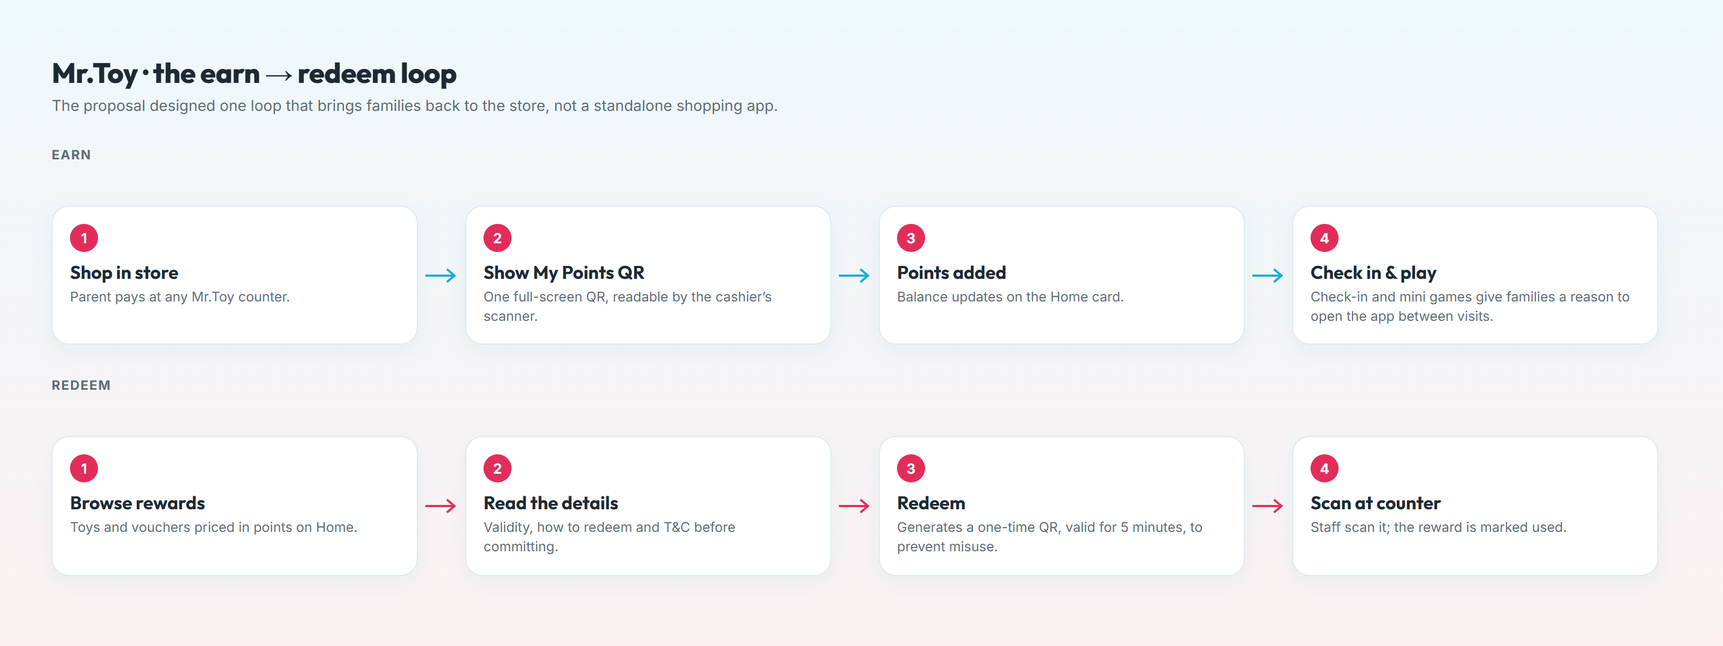
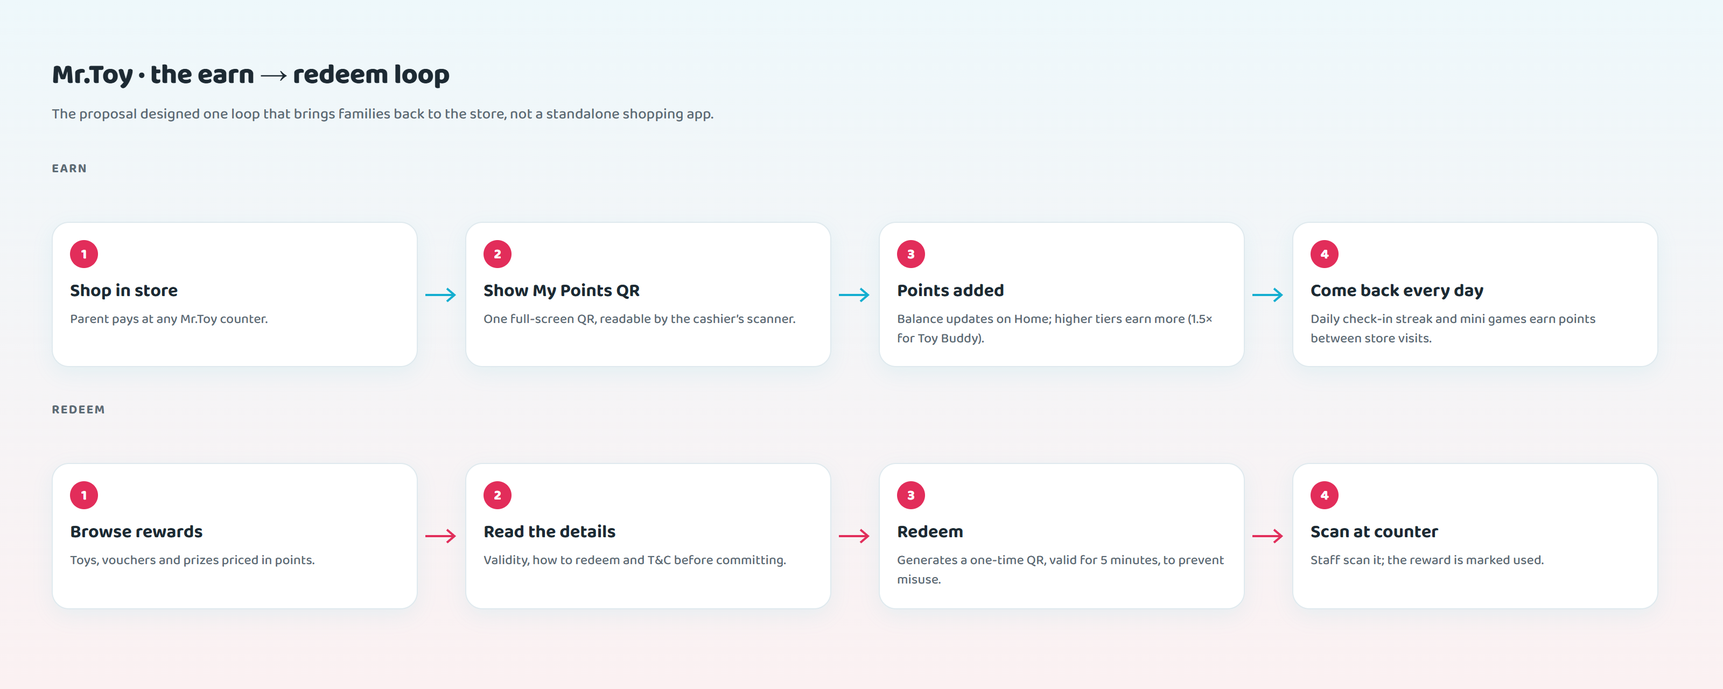
Use flat Figma screens for FitNect and Mr.Toy, add matching covers
- New FitNect and Mr.Toy covers in the same style as Duit and Jalan
- Real screen galleries replace the cropped close-ups; old mockups move to "All screens"
- Sitemaps and flows redrawn from the final screens (Mr.Toy daily check-in, mini games, tiers)
- Add fonts (PT Sans, Baloo 2) and dates; drop the Mr.Toy reflection and Duit usability testing
- Mobile galleries take a per-project screen ratio

diff --git a/src/data/caseStudies.ts b/src/data/caseStudies.ts
@@ -138,25 +138,12 @@ export const CASE_STUDIES: CaseStudy[] = [
         ],
       },
       {
-        // TODO(verify): sample results. Replace with your own usability-test results.
-        id: 'testing',
-        kind: 'insights',
-        phase: 'test',
-        title: 'Usability testing',
-        body: ['5 participants completed 3 tasks on the Figma prototype. Two changes came out of it: the budget ring got a numeric label, and “Split” moved from Me to the Pay tab.'],
-        items: [
-          { label: 'task success (set a budget)', value: '5/5' },
-          { label: 'avg. time to first budget', value: '48s' },
-          { label: 'SUS score', value: '82' },
-        ],
-      },
-      {
         id: 'learnings',
         kind: 'text',
         phase: 'test',
         title: 'What I learned',
         body: [
-          'Starting from real data instead of an empty form was the single biggest usability win.',
+          'Starting from real data instead of an empty form shaped every other decision in the app.',
           'Next: test the nudge copy for tone, and design an accessible high-contrast theme.',
         ],
       },
@@ -315,18 +302,17 @@ export const CASE_STUDIES: CaseStudy[] = [
     ],
   },
   // Real client work. Structure and decisions are read from the delivered screens.
-  // TODO(verify): confirm the brief, dates and outcomes before publishing.
   {
     slug: 'fitnect',
     title: 'FitNect',
     tagline: 'A fitness marketplace app for finding a personal trainer, booking and paying for sessions, and staying on track.',
     platform: 'Mobile',
     role: 'UI/UX Designer (freelance) — IA, user flows, UI design',
-    timeline: '', // TODO(verify): add dates
+    timeline: 'February 2025 (client project)',
     tools: ['Figma'],
     tags: ['Client Work', 'Marketplace', 'Dark Theme', 'iOS'],
     accent: '#7D51FC',
-    cover: { src: fitnectImg, alt: 'FitNect mobile app screens' },
+    cover: { src: img('fitnect', 'cover', 'webp'), alt: 'FitNect activities, home and service package screens on three phones' },
     sections: [
       {
         id: 'overview',
@@ -345,9 +331,9 @@ export const CASE_STUDIES: CaseStudy[] = [
         title: 'Design goals',
         body: ['A marketplace only works if both sides trust it. I designed around three questions a client asks before paying a stranger to train them.'],
         steps: [
-          { title: 'Can I trust this coach?', detail: 'Ratings, number of purchases, the trainer’s gym, rules and what to bring, before any payment.' },
-          { title: 'Does it fit my life?', detail: 'Service types (online, door-to-door, fixed location) and specialities such as post-injury or post-pregnancy.' },
-          { title: 'Will I keep going?', detail: 'Sessions shown as progress (3/10 done), reminders, and a timeline of what is next.' },
+          { title: 'Can I trust this coach?', detail: 'Ratings, purchases, certificates, reviews, rules and a cancellation policy, all before any payment.' },
+          { title: 'Does it fit my life?', detail: 'Service types (online, door-to-door, fixed location), special needs such as post-injury or post-pregnancy, and the trainer’s schedule.' },
+          { title: 'Will I keep going?', detail: 'Sessions shown as progress (3/10 done), a progress chart, and a timeline of what is next.' },
         ],
       },
       {
@@ -372,10 +358,11 @@ export const CASE_STUDIES: CaseStudy[] = [
         phase: 'design',
         title: 'Key design decisions',
         steps: [
-          { title: 'Price and “Buy now” stay pinned', detail: 'On the service page the price never scrolls away, so reading more never means losing the action.' },
+          { title: 'Price and “Buy now” stay pinned', detail: 'On the package page the price never scrolls away, so reading more never means losing the action.' },
           { title: 'Sessions read as progress', detail: 'Packages show “3/10 completed”, which turns a purchase into a goal and prompts the next booking.' },
           { title: 'One timeline for everything', detail: 'Booked sessions and self-logged workouts share the Activities timeline, so the day reads at a glance.' },
-          { title: 'Guarded destructive actions', detail: 'Deleting an account asks the user to type “Delete”, so it can’t happen by accident.' },
+          { title: 'A profile the trainer can work with', detail: 'Users share goals, activity level, diet, injuries and health conditions, so the first session starts prepared.' },
+          { title: 'The session is the plan', detail: 'Each booked session carries the workout plan and the trainer’s notes, with Reschedule one tap away.' },
         ],
       },
       {
@@ -391,24 +378,32 @@ export const CASE_STUDIES: CaseStudy[] = [
           { name: 'Background', hex: '#1F2022' },
           { name: 'Text', hex: '#FFFFFF' },
         ],
-        fonts: [], // TODO(verify): add the typeface used in the Figma file
-      },
-      {
-        id: 'closeups',
-        kind: 'gallery',
-        layout: 'detail',
-        phase: 'design',
-        title: 'Screens up close',
-        images: [
-          { src: img('fitnect', 'detail', 'jpg'), alt: 'Service detail page for 1-on-1 personal training', caption: 'Service detail — trust signals before the pinned Buy now' },
-          { src: img('fitnect', 'home', 'jpg'), alt: 'Home with upcoming sessions, session progress and progress tiles', caption: 'Home — upcoming sessions and progress' },
-          { src: img('fitnect', 'activities', 'jpg'), alt: 'Activities calendar with a timeline of sessions', caption: 'Activities — sessions and workouts on one timeline' },
-          { src: img('fitnect', 'payments', 'jpg'), alt: 'Payments with saved cards and transaction history', caption: 'Payments — saved cards and history' },
-          { src: img('fitnect', 'help', 'jpg'), alt: 'Help centre with common issues and contact options', caption: 'Help centre — answers before support' },
-        ],
+        fonts: ['PT Sans'],
       },
       {
         id: 'hifi',
+        kind: 'gallery',
+        layout: 'mobile',
+        screenRatio: 402 / 800,
+        phase: 'design',
+        title: 'High-fidelity screens',
+        images: [
+          { src: img('fitnect', 'home'), alt: 'Home with upcoming sessions, trainer sessions and a progress chart', caption: 'Home — upcoming sessions and progress' },
+          { src: img('fitnect', 'service'), alt: '1-on-1 personal training package with rules, service types and reviews', caption: 'Package detail — trust signals before the pinned Buy now' },
+          { src: img('fitnect', 'trainer'), alt: 'Trainer profile with certificates, reviews, packages and schedule', caption: 'Trainer profile — certificates, reviews and schedule' },
+          { src: img('fitnect', 'session'), alt: 'Session detail with workout plan and trainer’s notes', caption: 'Session — workout plan, notes and reschedule' },
+          { src: img('fitnect', 'activities'), alt: 'Activities calendar with a timeline of sessions and workouts', caption: 'Activities — sessions and workouts on one timeline' },
+          { src: img('fitnect', 'home-filter'), alt: 'Date range filter over the home screen', caption: 'Filter — progress by date range' },
+          { src: img('fitnect', 'my-profile'), alt: 'User profile with goals, diet, injuries and health condition', caption: 'My profile — what a trainer needs to know' },
+          { src: img('fitnect', 'profile'), alt: 'Profile tab with settings and support links', caption: 'Profile — settings and support' },
+          { src: img('fitnect', 'payments'), alt: 'Payments with saved cards and transaction history', caption: 'Payments — saved cards and history' },
+          { src: img('fitnect', 'privacy'), alt: 'Privacy and security settings with change password', caption: 'Privacy & security' },
+          { src: img('fitnect', 'help'), alt: 'Help centre with common issues and contact options', caption: 'Help centre — answers before support' },
+          { src: img('fitnect', 'guide'), alt: 'How FitNect works guide in three steps', caption: 'How FitNect works — onboarding guide' },
+        ],
+      },
+      {
+        id: 'all-screens',
         kind: 'gallery',
         layout: 'web',
         phase: 'design',
@@ -420,14 +415,14 @@ export const CASE_STUDIES: CaseStudy[] = [
   {
     slug: 'mrtoy',
     title: 'Mr.Toy',
-    tagline: 'A loyalty app proposal for the Mr.Toy toy-store chain: points, rewards, vouchers and a QR code for the counter.',
+    tagline: 'A loyalty app proposal for the Mr.Toy toy-store chain: points, daily rewards, vouchers and a QR code for the counter.',
     platform: 'Mobile',
     role: 'UI/UX Designer — pitch proposal',
-    timeline: '', // TODO(verify): add dates
+    timeline: 'March 2025 (pitch)',
     tools: ['Figma'],
     tags: ['Pitch', 'Loyalty', 'Retail', 'iOS'],
     accent: '#15AED0',
-    cover: { src: mrtoyImg, alt: 'Mr.Toy loyalty app screens' },
+    cover: { src: img('mrtoy', 'cover', 'webp'), alt: 'Mr.Toy rewards, home and voucher screens on three phones' },
     sections: [
       {
         id: 'overview',
@@ -444,8 +439,9 @@ export const CASE_STUDIES: CaseStudy[] = [
         phase: 'define',
         title: 'Design goals',
         steps: [
-          { title: 'Bring families back', detail: 'Points, rewards and seasonal campaigns give a reason for the next visit.' },
-          { title: 'Make the counter fast', detail: 'The points QR is one tap away and fills the screen, so checkout isn’t held up.' },
+          { title: 'Bring families back', detail: 'Points, membership tiers and seasonal campaigns give a reason for the next visit.' },
+          { title: 'A reason to open it every day', detail: 'A daily check-in streak and mini games earn points between store visits.' },
+          { title: 'Make the counter fast', detail: 'The points QR floats above every tab and fills the screen, so checkout isn’t held up.' },
           { title: 'Speak to parents and kids', detail: 'Playful colour and toy photos for kids; clear terms and validity for parents.' },
         ],
       },
@@ -454,8 +450,8 @@ export const CASE_STUDIES: CaseStudy[] = [
         kind: 'text',
         phase: 'define',
         title: 'Information architecture',
-        body: ['Everything a member needs at the counter (points, vouchers, the QR code) is one tap from Home.'],
-        images: [{ src: img('mrtoy', 'sitemap'), alt: 'Mr.Toy sitemap with home sections, vouchers and points QR', caption: 'Sitemap' }],
+        body: ['Five tabs follow the loyalty loop: Home, Rewards, Store locator, Transactions and Account. My Points QR floats above every tab, because the counter is where points are earned.'],
+        images: [{ src: img('mrtoy', 'sitemap'), alt: 'Mr.Toy sitemap with sign-in, five tabs and the floating points QR', caption: 'Sitemap' }],
       },
       {
         id: 'flow',
@@ -471,10 +467,12 @@ export const CASE_STUDIES: CaseStudy[] = [
         phase: 'design',
         title: 'Key design decisions',
         steps: [
+          { title: 'A streak that grows', detail: 'Daily check-in gives +1 a day and +5 on day 7, so the seventh visit is worth coming back for.' },
+          { title: 'Mini games earn points', detail: 'Games on Home turn a quick daily open into points, keeping the brand in front of kids between visits.' },
+          { title: 'Tiers show the next step', detail: 'Account shows the current tier and how far to the next (“RM254 away from Toy Collector”), with its benefits.' },
           { title: 'Rewards are toys, not numbers', detail: 'Each reward shows the toy, its points price and the original price struck through.' },
           { title: 'Terms before commitment', detail: 'Vouchers explain validity, how to redeem and T&C before the Redeem button.' },
           { title: 'Time-limited redemption QR', detail: 'A redeemed voucher becomes a QR valid for 5 minutes, so screenshots can’t be reused.' },
-          { title: 'Room for campaigns', detail: 'A banner carousel on Home lets marketing run seasonal sales like Raya without an app update.' },
         ],
       },
       {
@@ -482,7 +480,7 @@ export const CASE_STUDIES: CaseStudy[] = [
         kind: 'palette',
         phase: 'design',
         title: 'Visual language',
-        body: ['Bright cyan from the Mr.Toy brand anchors the app. A soft cyan-to-pink gradient makes reward and QR screens feel like opening a present, and a strong pink-red is kept for Redeem actions.'],
+        body: ['Bright cyan from the Mr.Toy brand anchors the app. A soft cyan-to-pink gradient makes reward and QR screens feel like opening a present, and a strong pink-red is kept for Redeem actions. Baloo 2’s rounded letters match the playful tone.'],
         colors: [
           { name: 'Mr.Toy Cyan', hex: '#15AED0' },
           { name: 'Sky', hex: '#7ECAD7' },
@@ -490,28 +488,34 @@ export const CASE_STUDIES: CaseStudy[] = [
           { name: 'Redeem', hex: '#E22D5A' },
           { name: 'Card', hex: '#FFFFFF' },
         ],
-        fonts: [], // TODO(verify): add the typeface used in the Figma file
+        fonts: ['Baloo 2'],
       },
       {
         id: 'hifi',
         kind: 'gallery',
-        layout: 'web',
+        layout: 'mobile',
+        screenRatio: 375 / 812,
         phase: 'design',
-        title: 'Screens',
+        title: 'High-fidelity screens',
         images: [
-          { src: mrtoyImg, alt: 'Mr.Toy home, voucher, reward and points screens', caption: 'Home, voucher detail, reward detail and My Points' },
-          { src: img('mrtoy', 'points-qr', 'jpg'), alt: 'My Points screen with a full-screen QR code', caption: 'My Points — a full-screen QR for the cashier' },
+          { src: img('mrtoy', 'home'), alt: 'Home with points summary, campaign banner, rewards and mini games', caption: 'Home — points, campaigns, rewards and mini games' },
+          { src: img('mrtoy', 'rewards'), alt: 'Rewards with a 7-day check-in streak and vouchers', caption: 'Rewards — daily check-in streak and vouchers' },
+          { src: img('mrtoy', 'voucher'), alt: 'Voucher detail with validity, how to redeem and terms', caption: 'Voucher — terms before Redeem' },
+          { src: img('mrtoy', 'points-qr'), alt: 'My Points screen with a full-screen QR code', caption: 'My Points — a full-screen QR for the cashier' },
+          { src: img('mrtoy', 'locator'), alt: 'Store locator map with a store card and check-in button', caption: 'Store locator — hours and check-in' },
+          { src: img('mrtoy', 'account'), alt: 'Account with points, membership tier progress and vouchers', caption: 'Account — tier progress and vouchers' },
+          { src: img('mrtoy', 'membership'), alt: 'Membership tier with Toy Buddy privileges', caption: 'Membership — what each tier unlocks' },
+          { src: img('mrtoy', 'transactions'), alt: 'In-store transactions with points earned', caption: 'Transactions — purchases and points earned' },
+          { src: img('mrtoy', 'login'), alt: 'Sign in with Google, Apple or email', caption: 'Sign in' },
         ],
       },
       {
-        // TODO(verify): this reflection is a draft. Rewrite it in your own words.
-        id: 'reflection',
-        kind: 'text',
-        phase: 'test',
-        title: 'Reflection',
-        body: [
-          'A pitch is judged in minutes. Next time I would lead with a clickable prototype of the counter moment and a short rollout plan, because that is what a retailer has to picture before saying yes.',
-        ],
+        id: 'all-screens',
+        kind: 'gallery',
+        layout: 'web',
+        phase: 'design',
+        title: 'All screens',
+        images: [{ src: mrtoyImg, alt: 'Mr.Toy home, voucher, reward and points screens' }],
       },
     ],
   },

diff --git a/design/client-work.html b/design/client-work.html
@@ -2,11 +2,11 @@
 <html lang="en">
 <head>
 <meta charset="utf-8" />
-<title>FitNect & Mr.Toy — IA and flow diagrams</title>
+<title>FitNect & Mr.Toy — covers, IA and flow diagrams</title>
 <link rel="preconnect" href="https://fonts.googleapis.com" />
-<link href="https://fonts.googleapis.com/css2?family=Inter:wght@400;500;600;700&family=Outfit:wght@600;700;800&display=swap" rel="stylesheet" />
+<link href="https://fonts.googleapis.com/css2?family=Inter:wght@400;500;600;700&family=Outfit:wght@600;700;800&family=PT+Sans:wght@400;700&family=Baloo+2:wght@500;600;700;800&display=swap" rel="stylesheet" />
 <style>
-  /* Diagrams documenting the shipped FitNect and Mr.Toy designs. Structure is read off the final screens. */
+  /* Covers and diagrams for the FitNect and Mr.Toy case studies. Structure is read off the final Figma screens. */
   * { box-sizing: border-box; margin: 0; padding: 0; }
   body { background: #d9dbe4; font-family: 'Inter', sans-serif; padding: 40px; display: flex; flex-direction: column; gap: 40px; align-items: flex-start; }
   .artboard { position: relative; overflow: hidden; flex: none; padding: 48px; }
@@ -36,7 +36,15 @@
   .loop { margin-top: 26px; padding: 14px 18px; border-radius: 14px; font-size: 13.5px; line-height: 1.5; display: flex; gap: 12px; align-items: flex-start; }
   .lane { font-size: 12px; font-weight: 700; letter-spacing: .08em; text-transform: uppercase; margin-top: 30px; }
 
+  /* Covers */
+  .cover { padding: 0; }
+  .chip { padding: 6px 14px; border-radius: 99px; background: rgba(255,255,255,.16); font-size: 12px; font-weight: 600; }
+  .phone { position: absolute; width: 320px; border-radius: 40px; overflow: hidden; }
+  .phone img { display: block; width: 100%; }
+
   /* FitNect theme (dark, purple + lime) */
+  .fit, .fit .title, .fit .root, .fit h5 { font-family: 'PT Sans', sans-serif; }
+  .toy, .toy .title, .toy .root, .toy h5 { font-family: 'Baloo 2', sans-serif; }
   .fit { background: #1f2022; color: #e7e7ea; --line: #4a4b52; }
   .fit .sub { color: #a5a6ad; }
   .fit .root { background: #c8f672; color: #1f2022; }
@@ -74,48 +82,67 @@ const sitemap = (root, tabs) => `<div class="tree"><div class="root">${root}</di
   </div></div>`;
 const flow = (steps, color) => `<div class="flow">${steps.map(([t, d], i) => `${i ? arrow(color) : ''}<div class="step"><span class="n">${i + 1}</span><h5>${t}</h5><p>${d}</p></div>`).join('')}</div>`;
 
+// Phone frames take the app's screen ratio, so long scrolling screens show only their top
+const phones = (slug, ratio, list, shadow) => list.map(([n, x, y, r]) => `<div class="phone" style="left:${x}px;top:${y}px;height:${Math.round(320 * ratio)}px;transform:rotate(${r}deg);box-shadow:0 30px 60px ${shadow}"><img src="../public/work/${slug}/${n}.png" alt=""></div>`).join('');
+const coverText = (chips, name, line, color) => `<div style="position:absolute;left:110px;top:240px;width:450px;color:#fff">
+    <div style="display:flex;gap:8px">${chips.map(c => `<span class="chip">${c}</span>`).join('')}</div>
+    <div class="title" style="font-size:118px;font-weight:800;line-height:1;margin-top:16px;color:#fff">${name}</div>
+    <div style="font-size:23px;font-weight:700;margin-top:18px;line-height:1.35;color:${color}">${line}</div>
+  </div>`;
+
 const boards = {
-  'fitnect-ia': [1600, 700, 'fit', () => `<div class="title">FitNect · information architecture</div><div class="sub">Five tabs. Search sits in the middle as the main action, because finding a coach is how every journey starts.</div>
+  'fitnect-cover': [1600, 900, 'fit cover', () => `<div style="position:absolute;inset:0;background:linear-gradient(135deg,#1f2022 0%,#3a2a7a 60%,#7d51fc 100%)"></div>
+    <div style="position:absolute;right:-220px;top:-300px;width:900px;height:900px;border-radius:50%;background:rgba(200,246,114,.08)"></div>
+    ${coverText(['Mobile app', 'Client project'], 'FitNect', 'Find a personal trainer, book and pay for sessions, and stay on track.', '#c8f672')}
+    ${phones('fitnect', 800 / 402, [['activities', 640, 175, -6], ['home', 935, 105, 0], ['service', 1230, 175, 6]], 'rgba(0,0,0,.45)')}`],
+
+  'mrtoy-cover': [1600, 900, 'toy cover', () => `<div style="position:absolute;inset:0;background:linear-gradient(135deg,#0f8fb0 0%,#15aed0 50%,#f08aa3 100%)"></div>
+    <div style="position:absolute;right:-220px;top:-300px;width:900px;height:900px;border-radius:50%;background:rgba(255,255,255,.1)"></div>
+    ${coverText(['Mobile app', 'Pitch proposal'], 'Mr.Toy', 'A loyalty app that gives families a reason to come back to the toy store.', '#fff4f6')}
+    ${phones('mrtoy', 812 / 375, [['rewards', 640, 175, -6], ['home', 935, 105, 0], ['voucher', 1230, 175, 6]], 'rgba(10,60,80,.35)')}`],
+
+  'fitnect-ia': [1600, 760, 'fit', () => `<div class="title">FitNect · information architecture</div><div class="sub">Five tabs. Search sits in the middle as the main action, because finding a coach is how every journey starts.</div>
     ${sitemap('FitNect', [
-      ['Tab 1', 'Home', ['Upcoming sessions', 'My trainer’s sessions (3/10 done)', 'My progress (minutes per programme)', 'Add a progress metric']],
+      ['Tab 1', 'Home', ['Upcoming sessions', 'My trainer’s sessions (3/10 done)', ['Session detail: workout plan, trainer’s notes, reschedule'], 'My progress chart', ['Filter by date range'], 'Add a progress metric']],
       ['Tab 2', 'Activities', ['Week calendar', 'Day timeline of sessions & workouts', ['Add activity'], ['Swipe to delete']]],
-      ['Tab 3 · main action', 'Search', ['Keyword + location search', 'Recent searches', 'Service detail', ['Trainer, reviews, rules, what to bring'], ['Service types (online, door-to-door…)'], ['Buy now → payment']]],
+      ['Tab 3 · main action', 'Search', ['Keyword + location search', 'Service package detail', ['Rules, cancellation policy, what to bring'], ['Service types & session counts'], ['Buy now → payment'], 'Trainer profile', ['Certificates, reviews, packages, schedule']]],
       ['Tab 4', 'Chat', ['Conversations with trainers', 'Online status & last message']],
-      ['Tab 5', 'Profile', ['My profile', 'Payments: cards & history', 'Notifications: reminders, deals', 'Help centre: FAQ, chat, email', 'Security', ['Change password'], ['Delete account (type to confirm)'], 'How FitNect works guide']],
+      ['Tab 5', 'Profile', ['My profile: goals, health, personality', 'Payments: cards & history', 'Notifications', 'Privacy & security', ['Read receipts, hide profile'], ['Change password, delete account'], 'Help centre: FAQ, chat, email', 'How FitNect works guide']],
     ])}`],
 
   'fitnect-flow': [1600, 520, 'fit', () => `<div class="title">FitNect · core flow: from search to first session</div><div class="sub">One flow covers the marketplace’s promise: find a coach, pay safely, and turn up on time.</div>
     ${flow([
       ['Search', 'Keyword and location (e.g. “personal trainer”, Petaling Jaya). Recent searches come back in one tap.'],
-      ['Compare', 'Service detail shows rating, purchases, trainer, rules, what to bring and service types.'],
+      ['Compare', 'Package detail and trainer profile: rating, purchases, certificates, rules, reviews and schedule.'],
       ['Buy', 'Price and “Buy now” stay pinned at the bottom while the user reads.'],
       ['Pay', 'Saved cards and a transaction history for every package bought.'],
-      ['Show up', 'The session lands in Home and the Activities timeline, with a reminder notification.'],
-      ['Track', 'Sessions count down (3/10 done) and progress tiles show minutes trained.'],
+      ['Show up', 'The session lands in Home and the Activities timeline, with the workout plan and trainer’s notes.'],
+      ['Track', 'Sessions count down (3/10 done) and the progress chart shows the trend.'],
     ], '#7d51fc')}
-    <div class="loop"><b style="color:#c8f672;white-space:nowrap">Keeps users coming back →</b><span>Reminders and deals in Notifications, and session counts on Home, lead into booking the next package. Chat and the Help centre handle problems without leaving the app.</span></div>`],
+    <div class="loop"><b style="color:#c8f672;white-space:nowrap">Keeps users coming back →</b><span>Reminders in Notifications, and session counts on Home, lead into booking the next package. Chat and the Help centre handle problems without leaving the app.</span></div>`],
 
-  'mrtoy-ia': [1600, 560, 'toy', () => `<div class="title">Mr.Toy · information architecture</div><div class="sub">Everything a member needs at the counter (points, vouchers, the QR code) is one tap from Home.</div>
+  'mrtoy-ia': [1600, 700, 'toy', () => `<div class="title">Mr.Toy · information architecture</div><div class="sub">Five tabs around one loop: earn points, come back daily, redeem at the counter. My Points QR floats above every tab.</div>
     ${sitemap('Mr.Toy member app', [
-      ['Home', 'Welcome & check-in', ['Greeting with member name', 'Check-in', 'Points balance on the card']],
-      ['Home', 'Promotions', ['Seasonal campaign banner carousel', 'Banner → campaign detail']],
-      ['Home', 'Rewards for you', ['Toy rewards priced in points', 'Reward detail', ['T&C, stores it applies to'], ['Redeem with points']]],
-      ['Tab', 'Vouchers', ['Discount vouchers', 'Voucher detail', ['Validity, how to redeem, T&C'], ['Redeem → QR code (5 min)']]],
-      ['Anywhere', 'My Points QR', ['Show at checkout to collect points']],
-      ['Home', 'Mini games', ['Light games for kids between store visits']],
+      ['Entry', 'Sign in / Sign up', ['Google or Apple', 'Email or phone + password']],
+      ['Tab 1', 'Home', ['Check-in, points & vouchers summary', 'Campaign banners', 'Rewards for you', 'Mini games', ['Play daily to earn points']]],
+      ['Tab 2', 'Rewards', ['Points balance', '7-day daily check-in', ['+1 a day, +5 on day 7'], 'Vouchers / Prizes', ['Voucher detail → Redeem'], ['Redeem QR (5 min)']]],
+      ['Tab 3', 'Store locator', ['Map / List', 'Store card: hours, phone', ['Check in at the store']]],
+      ['Tab 4', 'Transactions', ['In-store purchases', 'Points history']],
+      ['Tab 5', 'Account', ['Points & membership tier', ['Tier benefits'], 'My vouchers', 'FAQ, About, T&C, Contact']],
+      ['Floating', 'My Points QR', ['Show at checkout to collect points']],
     ])}`],
 
-  'mrtoy-flow': [1600, 600, 'toy', () => `<div class="title">Mr.Toy · the earn → redeem loop</div><div class="sub">The proposal designed one loop that brings families back to the store, not a standalone shopping app.</div>
+  'mrtoy-flow': [1600, 640, 'toy', () => `<div class="title">Mr.Toy · the earn → redeem loop</div><div class="sub">The proposal designed one loop that brings families back to the store, not a standalone shopping app.</div>
     <div class="lane">Earn</div>
     ${flow([
       ['Shop in store', 'Parent pays at any Mr.Toy counter.'],
       ['Show My Points QR', 'One full-screen QR, readable by the cashier’s scanner.'],
-      ['Points added', 'Balance updates on the Home card.'],
-      ['Check in & play', 'Check-in and mini games give families a reason to open the app between visits.'],
+      ['Points added', 'Balance updates on Home; higher tiers earn more (1.5× for Toy Buddy).'],
+      ['Come back every day', 'Daily check-in streak and mini games earn points between store visits.'],
     ], '#15aed0')}
     <div class="lane">Redeem</div>
     ${flow([
-      ['Browse rewards', 'Toys and vouchers priced in points on Home.'],
+      ['Browse rewards', 'Toys, vouchers and prizes priced in points.'],
       ['Read the details', 'Validity, how to redeem and T&C before committing.'],
       ['Redeem', 'Generates a one-time QR, valid for 5 minutes, to prevent misuse.'],
       ['Scan at counter', 'Staff scan it; the reward is marked used.'],

diff --git a/src/pages/CaseStudy.tsx b/src/pages/CaseStudy.tsx
@@ -308,10 +308,9 @@ function PersonaList({ title, items, tone }: { title: string; items: string[]; t
 
 function SectionImages({ section, onOpen }: { section: CaseSection; onOpen: (image: CaseImage) => void }) {
   if (!section.images?.length) return null;
-  const layout = section.kind === 'gallery' ? section.layout : undefined;
-  const mobile = layout === 'mobile';
-  // 'detail' images are close-up crops with their own aspect ratio, so they keep it
-  const gridClass = mobile || layout === 'detail'
+  const mobile = section.kind === 'gallery' && section.layout === 'mobile';
+  const screenRatio = section.kind === 'gallery' ? (section.screenRatio ?? 390 / 844) : undefined;
+  const gridClass = mobile
     ? 'grid-cols-2 sm:grid-cols-3'
     : section.images.length > 1
       ? 'grid-cols-1 md:grid-cols-2'
@@ -326,10 +325,14 @@ function SectionImages({ section, onOpen }: { section: CaseSection; onOpen: (ima
             className="block w-full rounded-2xl overflow-hidden border border-slate-100 bg-slate-50 hover:shadow-md transition-shadow cursor-zoom-in"
             aria-label={`Enlarge: ${image.alt}`}
           >
-            <CaseImageView
-              image={image}
-              className={`w-full ${mobile ? 'aspect-[390/844] object-cover' : 'h-auto'}`}
-            />
+            {mobile ? (
+              // Long scrolling screens are cut to the phone height here and shown whole in the lightbox
+              <div style={{ aspectRatio: screenRatio }}>
+                <CaseImageView image={image} className="w-full h-full object-cover object-top" />
+              </div>
+            ) : (
+              <CaseImageView image={image} className="w-full h-auto" />
+            )}
           </button>
           {image.caption && (
             <figcaption className="text-xs text-slate-500 mt-2 leading-relaxed">{image.caption}</figcaption>

diff --git a/src/types.ts b/src/types.ts
@@ -56,7 +56,12 @@ export type CaseSection =
   | (BaseSection & { kind: 'personas'; personas: Persona[] })
   | (BaseSection & { kind: 'steps'; steps: { title: string; detail: string }[] })
   | (BaseSection & { kind: 'palette'; colors: { name: string; hex: string }[]; fonts: string[] })
-  | (BaseSection & { kind: 'gallery'; layout: 'mobile' | 'web' | 'detail' });
+  | (BaseSection & {
+      kind: 'gallery';
+      layout: 'mobile' | 'web';
+      /** Width / height of the phone screens in a mobile gallery. Defaults to 390 / 844. */
+      screenRatio?: number;
+    });
 
 export interface CaseStudy {
   slug: string;
